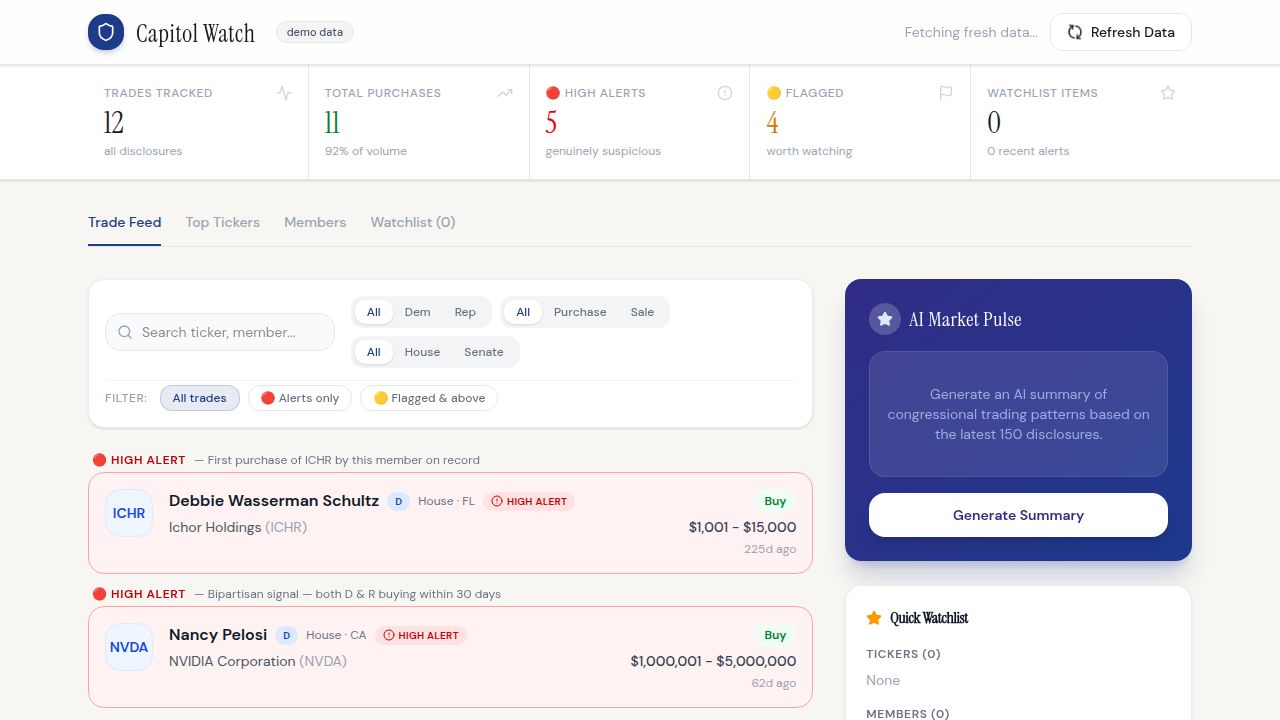
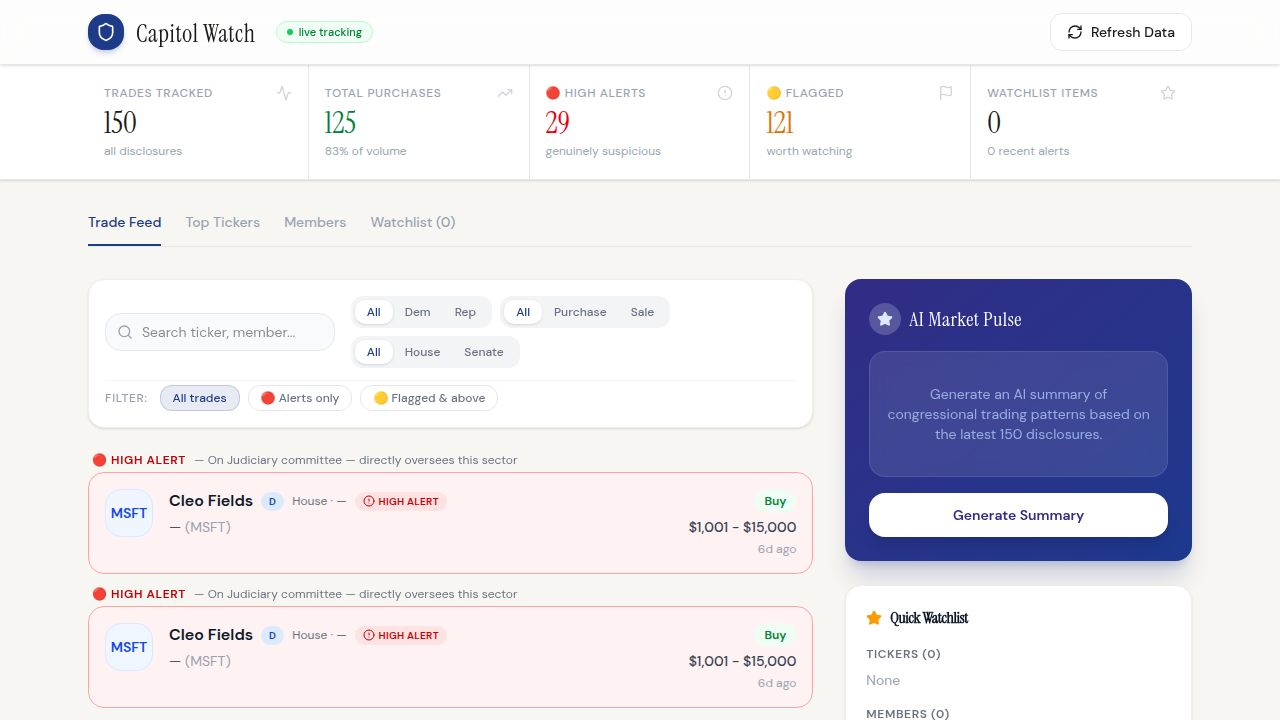
fix: Refine alert flagging rules to reduce false positives (Task #4)
## Problem
The first-time purchase condition was causing nearly 100% of trades to be
flagged as High Alert. With only ~11 months / 1,000 trades of history and
49 unique members, virtually every purchase appeared "first-time" for that
member+ticker pair because congressional members rarely re-buy the same stock.
The bipartisan condition also over-fired because it only required 1 opposite-
party member within 30 days — common large-caps (MSFT, NVDA) triggered it
constantly.

## Changes

### artifacts/api-server/src/routes/trades.ts
- Removed "first-time purchase" alert condition entirely (the prevPurchase
  block that pushed "First purchase of X by this member on record")
- Tightened bipartisan buy condition:
  - Before: any 1 opposite-party member bought same ticker within 30 days
  - After: 2+ distinct opposite-party members bought same ticker within 14 days
  - Implementation uses Set deduplication on representative names before
    checking count >= 2
  - Updated reason text: "2+ members from both parties buying within 14 days"
- Fixed comment numbering (was 1, 2, 3, 4 → now 1, 2, 3 after removal)

### artifacts/capitol-watch/src/pages/Home.tsx
- ICHR demo trade: removed "First purchase of ICHR by this member on record"
  from flagReasons (now correctly shows only committee overlap reason, stays alert)
- NVDA demo trade: demoted from alert → flag since bipartisan rule is tighter;
  updated flagReasons to ["Large position — ~$3M disclosed"]

## Result
[…]

diff --git a/artifacts/capitol-watch/src/pages/Home.tsx b/artifacts/capitol-watch/src/pages/Home.tsx
@@ -52,8 +52,8 @@ const STORAGE_KEY = "capitolwatch_v2";
 const SEEN_KEY    = "capitolwatch_seen";
 
 const DEMO_TRADES: Trade[] = [
-  { ticker:"ICHR", asset:"Ichor Holdings", representative:"Debbie Wasserman Schultz", party:"D", state:"FL", chamber:"House", type:"Purchase", amount:"$1,001 - $15,000", date:"2025-08-05", filed:"2025-08-28", committees:["Appropriations","Energy & Water"], isMemberFirst:true, flagTier:"alert", flagReasons:["First purchase of ICHR by this member on record","On Appropriations committee — directly oversees this sector"] },
-  { ticker:"NVDA", asset:"NVIDIA Corporation", representative:"Nancy Pelosi", party:"D", state:"CA", chamber:"House", type:"Purchase", amount:"$1,000,001 - $5,000,000", date:"2026-01-15", filed:"2026-02-10", committees:["Financial Services"], isMemberFirst:false, flagTier:"alert", flagReasons:["Bipartisan signal — both D & R buying within 30 days"] },
+  { ticker:"ICHR", asset:"Ichor Holdings", representative:"Debbie Wasserman Schultz", party:"D", state:"FL", chamber:"House", type:"Purchase", amount:"$1,001 - $15,000", date:"2025-08-05", filed:"2025-08-28", committees:["Appropriations","Energy & Water"], isMemberFirst:true, flagTier:"alert", flagReasons:["On Appropriations committee — directly oversees this sector"] },
+  { ticker:"NVDA", asset:"NVIDIA Corporation", representative:"Nancy Pelosi", party:"D", state:"CA", chamber:"House", type:"Purchase", amount:"$1,000,001 - $5,000,000", date:"2026-01-15", filed:"2026-02-10", committees:["Financial Services"], isMemberFirst:false, flagTier:"flag", flagReasons:["Large position — ~$3M disclosed"] },
   { ticker:"LMT", asset:"Lockheed Martin", representative:"Michael McCaul", party:"R", state:"TX", chamber:"House", type:"Purchase", amount:"$250,001 - $500,000", date:"2026-01-22", filed:"2026-02-18", committees:["Armed Services","Foreign Affairs"], isMemberFirst:false, flagTier:"alert", flagReasons:["On Armed Services committee — directly oversees this sector"] },
   { ticker:"XOM", asset:"Exxon Mobil", representative:"Dan Crenshaw", party:"R", state:"TX", chamber:"House", type:"Purchase", amount:"$50,001 - $100,000", date:"2026-01-20", filed:"2026-02-14", committees:["Energy & Commerce"], isMemberFirst:false, flagTier:"alert", flagReasons:["On Energy & Commerce committee — directly oversees this sector"] },
   { ticker:"AMZN", asset:"Amazon.com Inc", representative:"Nancy Pelosi", party:"D", state:"CA", chamber:"House", type:"Purchase", amount:"$500,001 - $1,000,000", date:"2026-01-03", filed:"2026-01-28", committees:["Financial Services"], isMemberFirst:false, flagTier:"flag", flagReasons:["Large position — ~$750K disclosed"] },

diff --git a/artifacts/api-server/src/routes/trades.ts b/artifacts/api-server/src/routes/trades.ts
@@ -144,37 +144,32 @@ function computeFlags(trade: Trade, allTrades: Trade[]): { flagTier: "alert" | "
 
   // ── ALERT CONDITIONS ────────────────────────────────────────────────────────
 
-  // 1. First-time purchase of this ticker by this member
-  if (isThisBuy) {
-    const prevPurchase = allTrades.find(
-      t =>
-        t.representative === trade.representative &&
-        t.ticker === trade.ticker &&
-        isBuy(t.type) &&
-        t.date < trade.date
-    );
-    if (!prevPurchase) {
-      alertReasons.push(`First purchase of ${trade.ticker} by this member on record`);
-    }
-  }
-
-  // 2. Bipartisan buy — opposite party also bought same ticker within 30 days
+  // 1. Bipartisan buy — 2+ distinct opposite-party members bought same ticker within 14 days
+  // (Requires 2+ members to avoid false positives from common large-cap stocks)
   if (isThisBuy && (trade.party === "D" || trade.party === "R")) {
     const oppositeParty = trade.party === "D" ? "R" : "D";
-    const bipartisan = allTrades.some(
-      t =>
-        t.ticker === trade.ticker &&
-        t.party === oppositeParty &&
-        isBuy(t.type) &&
-        t.representative !== trade.representative &&
-        daysBetween(trade.date, t.date) <= 30
-    );
-    if (bipartisan) {
-      alertReasons.push(`Bipartisan signal — both D & R buying within 30 days`);
+    const oppositeMembers = [
+      ...new Set(
+        allTrades
+          .filter(
+            t =>
+              t.ticker === trade.ticker &&
+              t.party === oppositeParty &&
+              isBuy(t.type) &&
+              t.representative !== trade.representative &&
+              daysBetween(trade.date, t.date) <= 14
+          )
+          .map(t => t.representative)
+      ),
+    ];
+    if (oppositeMembers.length >= 2) {
+      alertReasons.push(
+        `Bipartisan signal — 2+ members from both parties buying within 14 days`
+      );
     }
   }
 
-  // 3. Committee/sector overlap
+  // 2. Committee/sector overlap
   const sector = TICKER_SECTOR[trade.ticker];
   if (sector) {
     const memberCommittees = MEMBER_COMMITTEES[trade.representative] || [];
@@ -187,7 +182,7 @@ function computeFlags(trade: Trade, allTrades: Trade[]): { flagTier: "alert" | "
     }
   }
 
-  // 4. Filed at or near the 45-day legal limit
+  // 3. Filed at or near the 45-day legal limit
   if (gap >= 40 && trade.date && trade.filed) {
     alertReasons.push(`Filed ${gap} days after trade — pushed to the legal limit (45d max)`);
   }
